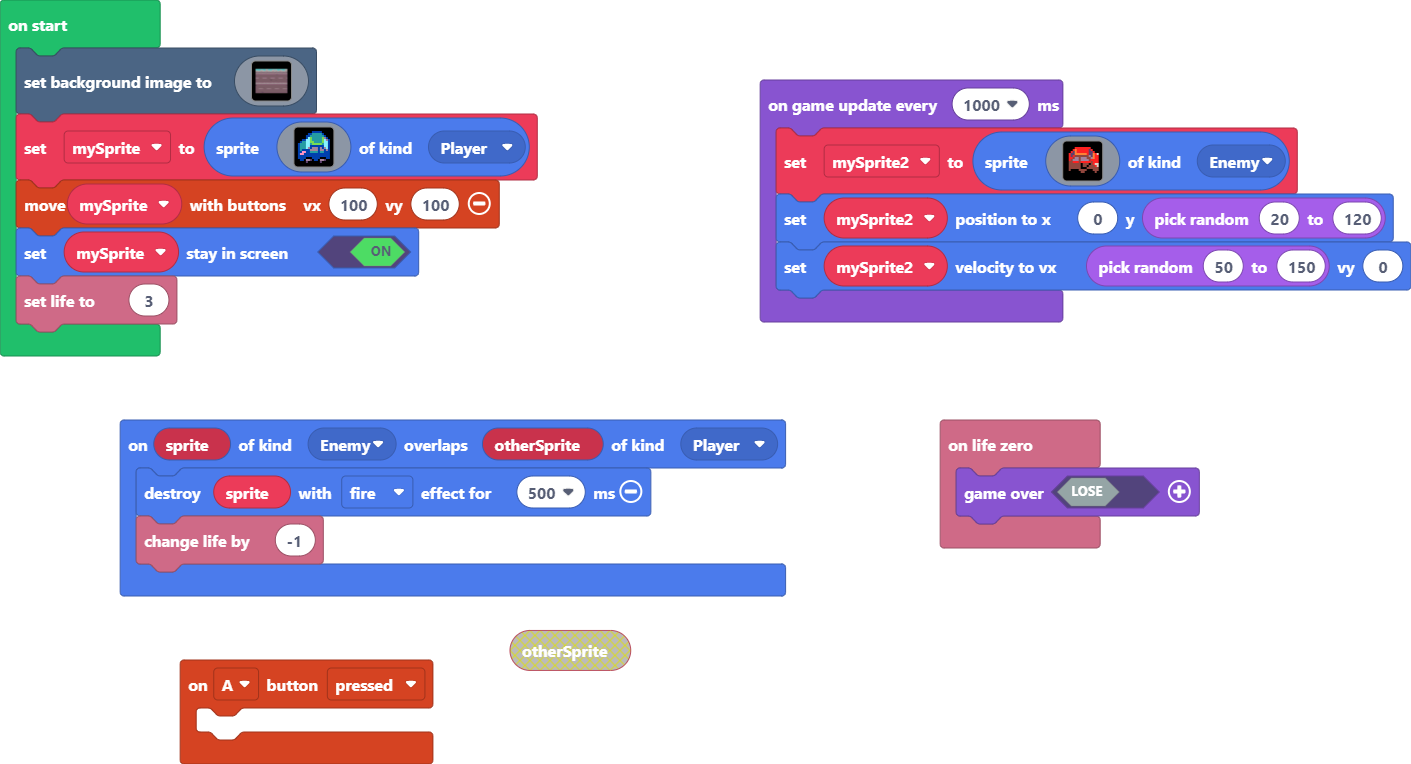
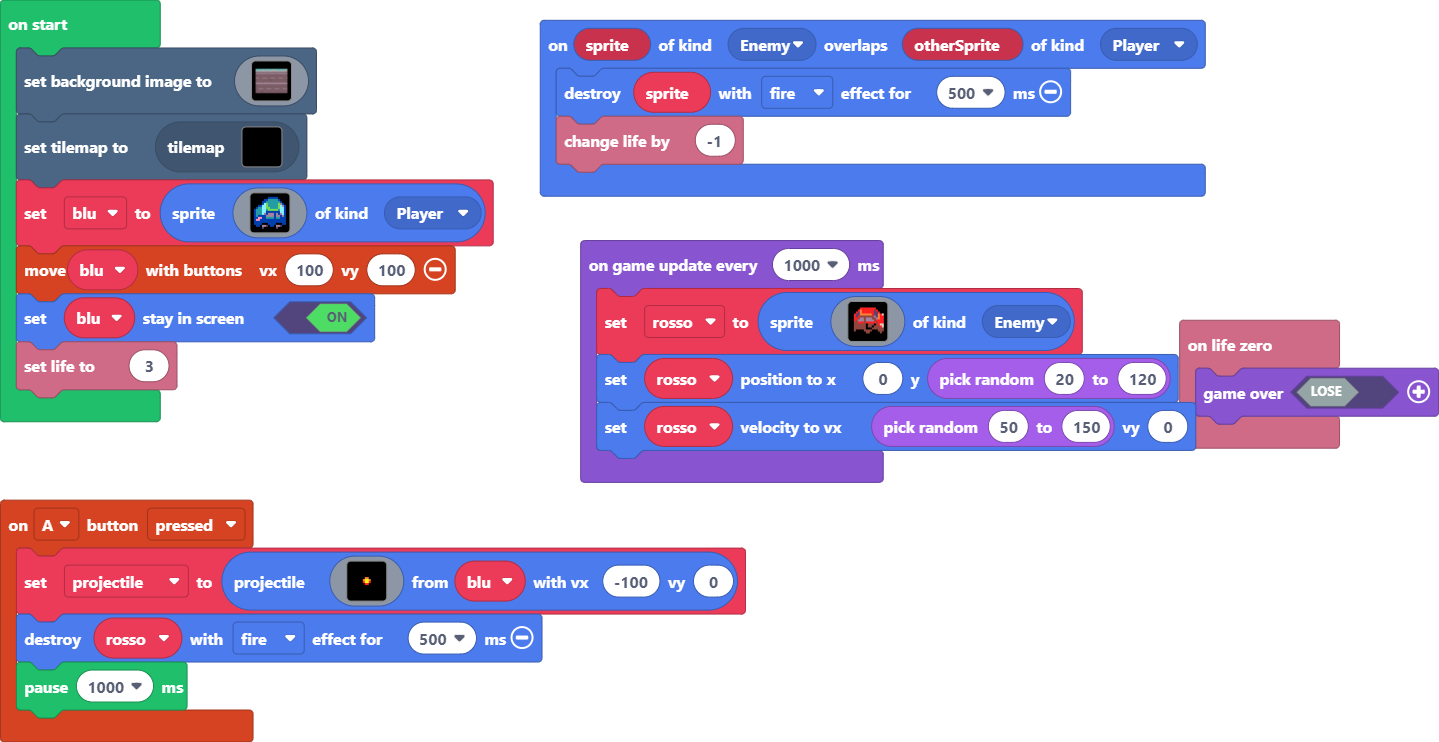
perfezionamento

diff --git a/main.ts b/main.ts
@@ -1,5 +1,24 @@
 controller.A.onEvent(ControllerButtonEvent.Pressed, function () {
-	
+    projectile = sprites.createProjectileFromSprite(img`
+        . . . . . . . . . . . . . . . . 
+        . . . . . . . . . . . . . . . . 
+        . . . . . . . . . . . . . . . . 
+        . . . . . . . . . . . . . . . . 
+        . . . . . . . . . . . . . . . . 
+        . . . . . . . . . . . . . . . . 
+        . . . . . . . 4 4 . . . . . . . 
+        . . . . . . 4 5 5 4 . . . . . . 
+        . . . . . . 2 5 5 2 . . . . . . 
+        . . . . . . . 2 2 . . . . . . . 
+        . . . . . . . . . . . . . . . . 
+        . . . . . . . . . . . . . . . . 
+        . . . . . . . . . . . . . . . . 
+        . . . . . . . . . . . . . . . . 
+        . . . . . . . . . . . . . . . . 
+        . . . . . . . . . . . . . . . . 
+        `, blu, -100, 0)
+    rosso.destroy(effects.fire, 500)
+    pause(1000)
 })
 sprites.onOverlap(SpriteKind.Enemy, SpriteKind.Player, function (sprite, otherSprite) {
     sprite.destroy(effects.fire, 500)
@@ -8,7 +27,9 @@ sprites.onOverlap(SpriteKind.Enemy, SpriteKind.Player, function (sprite, otherSp
 info.onLifeZero(function () {
     game.over(false)
 })
-let mySprite2: Sprite = null
+let rosso: Sprite = null
+let projectile: Sprite = null
+let blu: Sprite = null
 scene.setBackgroundImage(img`
     9999999999999999999999999999999999999999999999999999999999999999999999999999999999999999999999999999999999999999999999999999999999999999999999999999999999999999
     9999999999999999999999999999999999999999999999999999111111111119999999999999999999999999999999999999991111999999999999999999999999999999999999999999111111111111
@@ -131,7 +152,8 @@ scene.setBackgroundImage(img`
     bbbbbbbbbbbbbbbbbbbbbbbbbbbbbbbbbbbbbbccbbbbbbbbbbbbbbbbbbbbbbbbbbbbbbbbbbbbbbbbbbbbbbbbbbbbbbbbbbbbbbbbbbbbbbbbbbbbbbbbbbbbbbbbbbbbbbbbbbbbbbbbbbbbbbbbbbbbbbbb
     bbbbbbbbbbbbbbbbbbbbbbbbbbbbbbbbbbbbbbbbbbbbbbbbbbbbbbbbbbbbbbbbbbbbbbbbbbbbbbbbbbbbbbbbbbbbbbbbbbbbbbbbbbbbbbbbbbbbbbbbbbbbbbbbbbbbbbbbbbbbbbbbbbbbbbbbbbbbbbbb
     `)
-let mySprite = sprites.create(img`
+tiles.setCurrentTilemap(tilemap`level1`)
+blu = sprites.create(img`
     . . . . . . . 8 8 8 8 8 . . . . 
     . . . . . 8 8 6 6 6 6 6 8 . . . 
     . . . . 8 8 6 6 6 6 6 6 6 8 . . 
@@ -149,11 +171,11 @@ let mySprite = sprites.create(img`
     . 8 8 f b b c f 8 8 f b b c f . 
     . . . . c f f . . . . c f f . . 
     `, SpriteKind.Player)
-controller.moveSprite(mySprite, 100, 100)
-mySprite.setStayInScreen(true)
+controller.moveSprite(blu, 100, 100)
+blu.setStayInScreen(true)
 info.setLife(3)
 game.onUpdateInterval(1000, function () {
-    mySprite2 = sprites.create(img`
+    rosso = sprites.create(img`
         . . . . . . . . . . . . . . . . 
         . . . . 2 2 2 2 2 2 2 2 . . . . 
         . . . 2 4 2 2 2 2 2 2 c 2 . . . 
@@ -171,6 +193,6 @@ game.onUpdateInterval(1000, function () {
         . . . f f f . . . . f f f f . . 
         . . . . . . . . . . . . . . . . 
         `, SpriteKind.Enemy)
-    mySprite2.setPosition(0, randint(20, 120))
-    mySprite2.setVelocity(randint(50, 150), 0)
+    rosso.setPosition(0, randint(20, 120))
+    rosso.setVelocity(randint(50, 150), 0)
 })

diff --git a/tilemap.g.ts b/tilemap.g.ts
@@ -1,0 +1,39 @@
+// Auto-generated code. Do not edit.
+namespace myTiles {
+    //% fixedInstance jres blockIdentity=images._tile
+    export const transparency16 = image.ofBuffer(hex``);
+
+    helpers._registerFactory("tilemap", function(name: string) {
+        switch(helpers.stringTrim(name)) {
+            case "level1":
+            case "level1":return tiles.createTilemap(hex`1000100000000000000000000000000000000000000000000000000000000000000000000000000000000000000000000000000000000000000000000000000000000000000000000000000000000000000000000000000000000000000000000000000000000000000000000000000000000000000000000000000000000000000000000000000000000000000000000000000000000000000000000000000000000000000000000000000000000000000000000000000000000000000000000000000000000000000000000000000000000000000000000000000000000000000000000000000000000000000000000000000000000000000000000000000000000000`, img`
+2 2 2 2 2 2 2 2 2 2 2 2 2 2 2 2 
+. . . . . . . . . . . . . . . . 
+. . . . . . . . . . . . . . . . 
+. . . . . . . . . . . . . . . . 
+. . . . . . . . . . . . . . . . 
+. . . . . . . . . . . . . . . . 
+. . . . . . . . . . . . . . . . 
+. . . . . . . . . . . . . . . . 
+. . . . . . . . . . . . . . . . 
+. . . . . . . . . . . . . . . . 
+. . . . . . . . . . . . . . . . 
+. . . . . . . . . . . . . . . . 
+. . . . . . . . . . . . . . . . 
+. . . . . . . . . . . . . . . . 
+. . . . . . . . . . . . . . . . 
+. . . . . . . . . . . . . . . . 
+`, [myTiles.transparency16], TileScale.Sixteen);
+        }
+        return null;
+    })
+
+    helpers._registerFactory("tile", function(name: string) {
+        switch(helpers.stringTrim(name)) {
+            case "transparency16":return transparency16;
+        }
+        return null;
+    })
+
+}
+// Auto-generated code. Do not edit.
